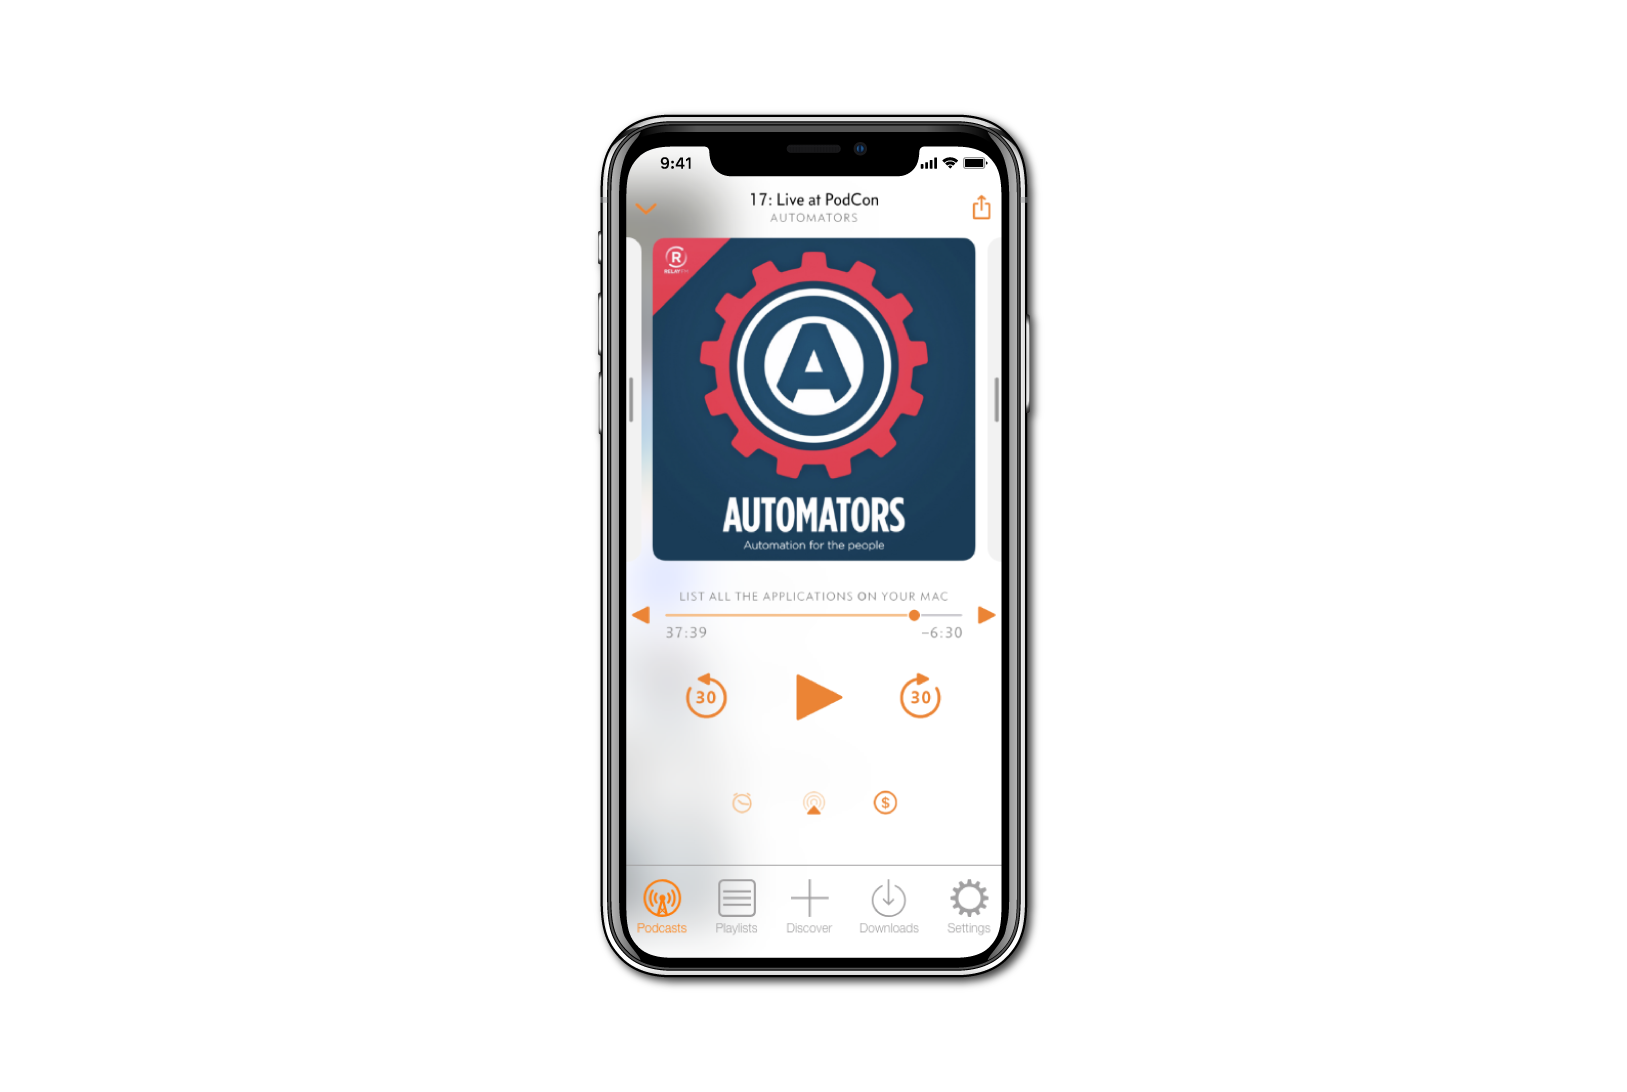
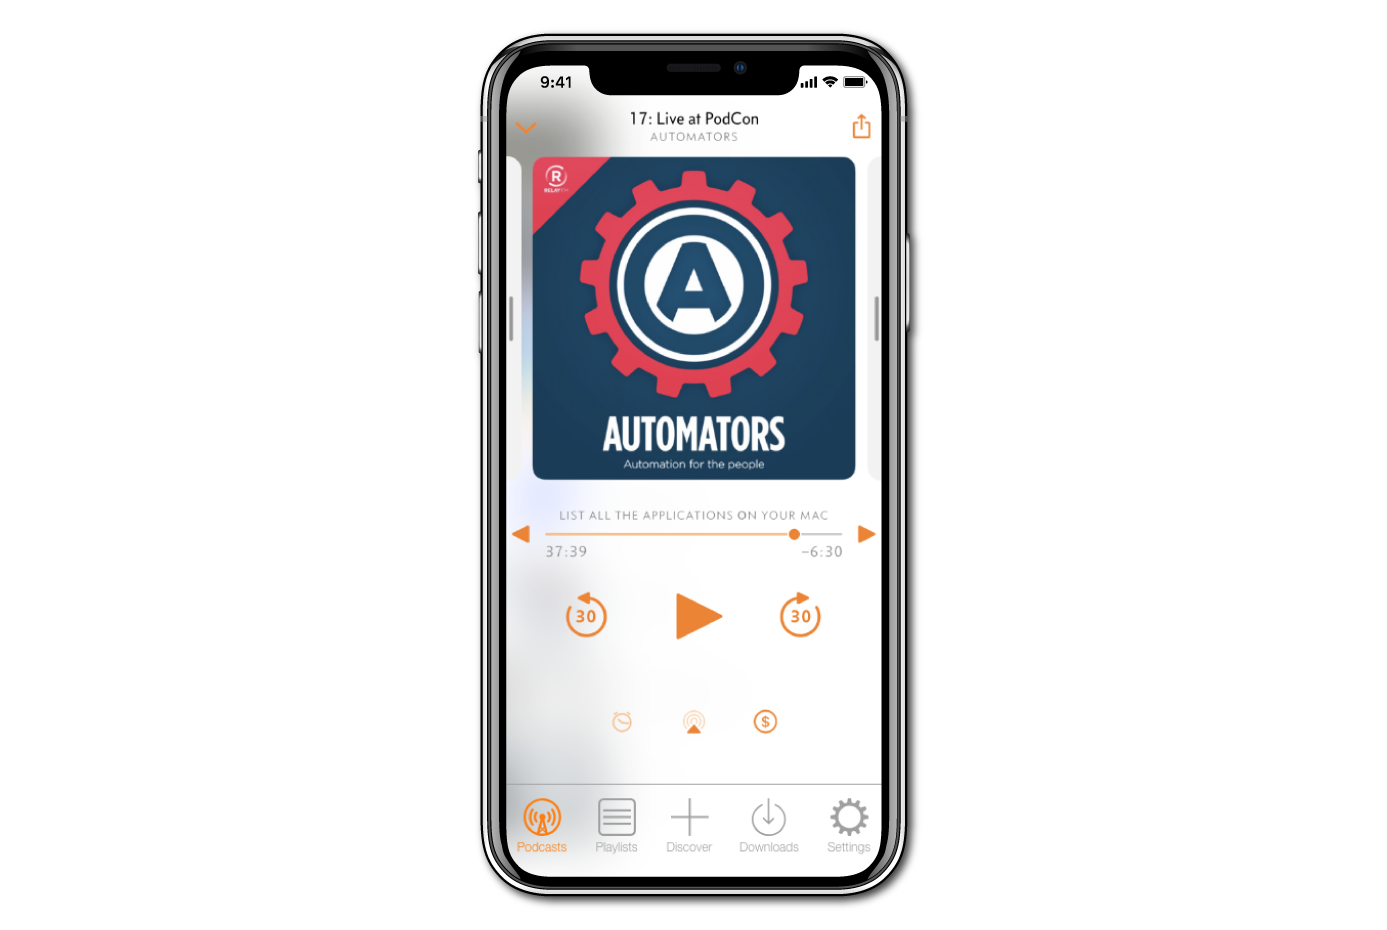
Increased size of images, fixed typos, removed test.html, created image.backup folder

Changed region(s): [[0.341, 0.0312, 0.682, 0.9978], [0.434, 0.7172, 0.465, 0.7484]]

diff --git a/index.html b/index.html
@@ -42,7 +42,7 @@
         </div>
         <div class="col-sm-12 col-md-8 horiz-align">
           <p>
-            Hey! Thanks for stopping by my site! This is mainly to showcase recently worked on projects (or currently working on) as well as to act as hub for my other places on the Internet. A bit more about me is that I currently work at Jamf and am Firefighter for Township Fire Department. I went to the University of Wisconsin-Eau Claire for my bachelors in User Experience Design. I’m also a hobbyist photographer and videographer.
+            Hey! Thanks for stopping by my site! This is mainly to showcase my recently worked on projects (or currently working on), as well as to act as a hub for my other places on the Internet. A bit more about me is that I am currently working at Jamf in their CX Department and I'm a volunteer Firefighter. I went to the University of Wisconsin-Eau Claire for my bachelors in User Experience Design. I’m also a hobbyist photographer, videographer, and developer.
           </p>
           <h2 class="nav">
             <a class="space" target="_blank" href="https://www.linkedin.com/in/caseyutke/"><i class="fab fa-linkedin-in" title="LinkedIn"></i></a>
